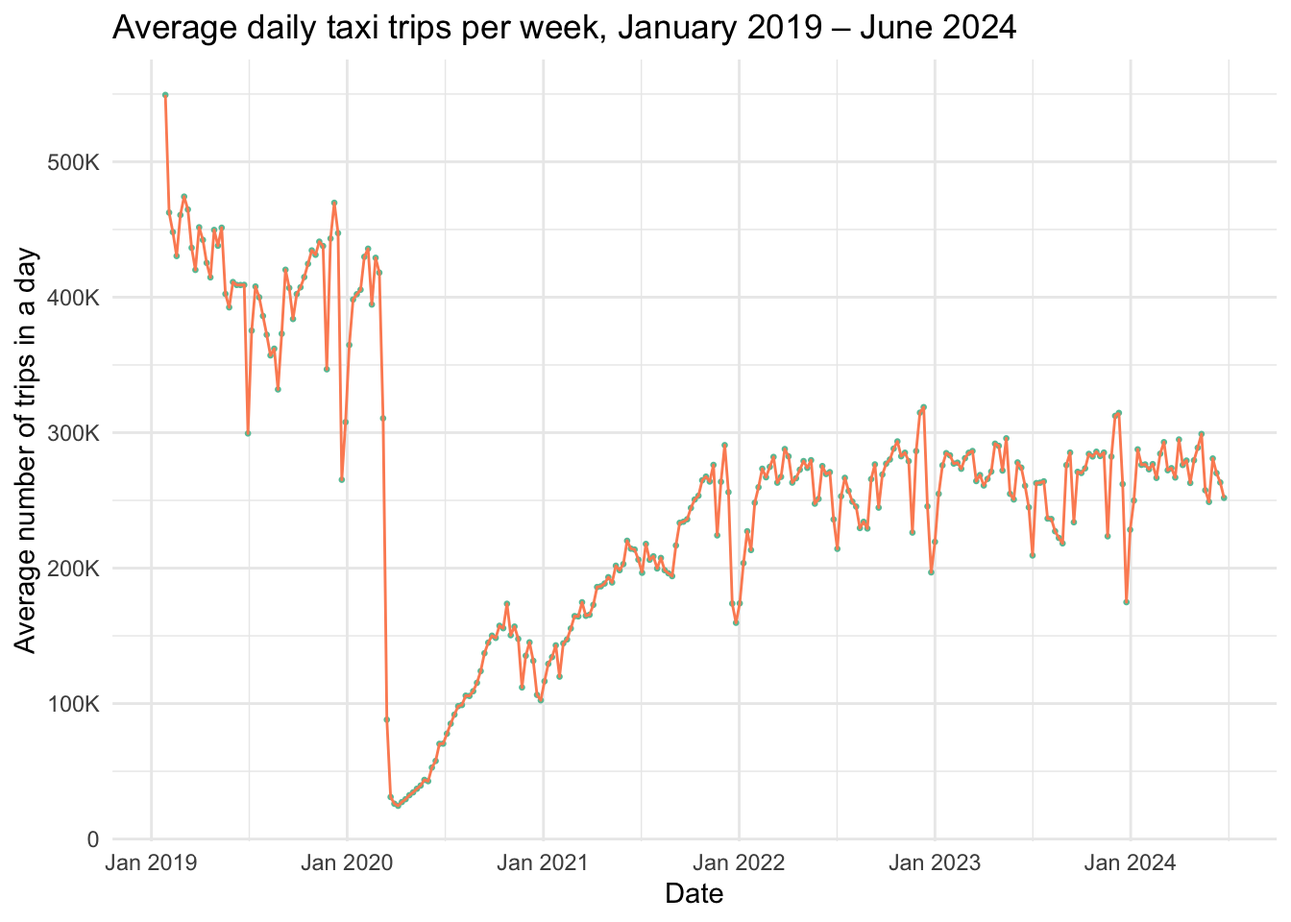
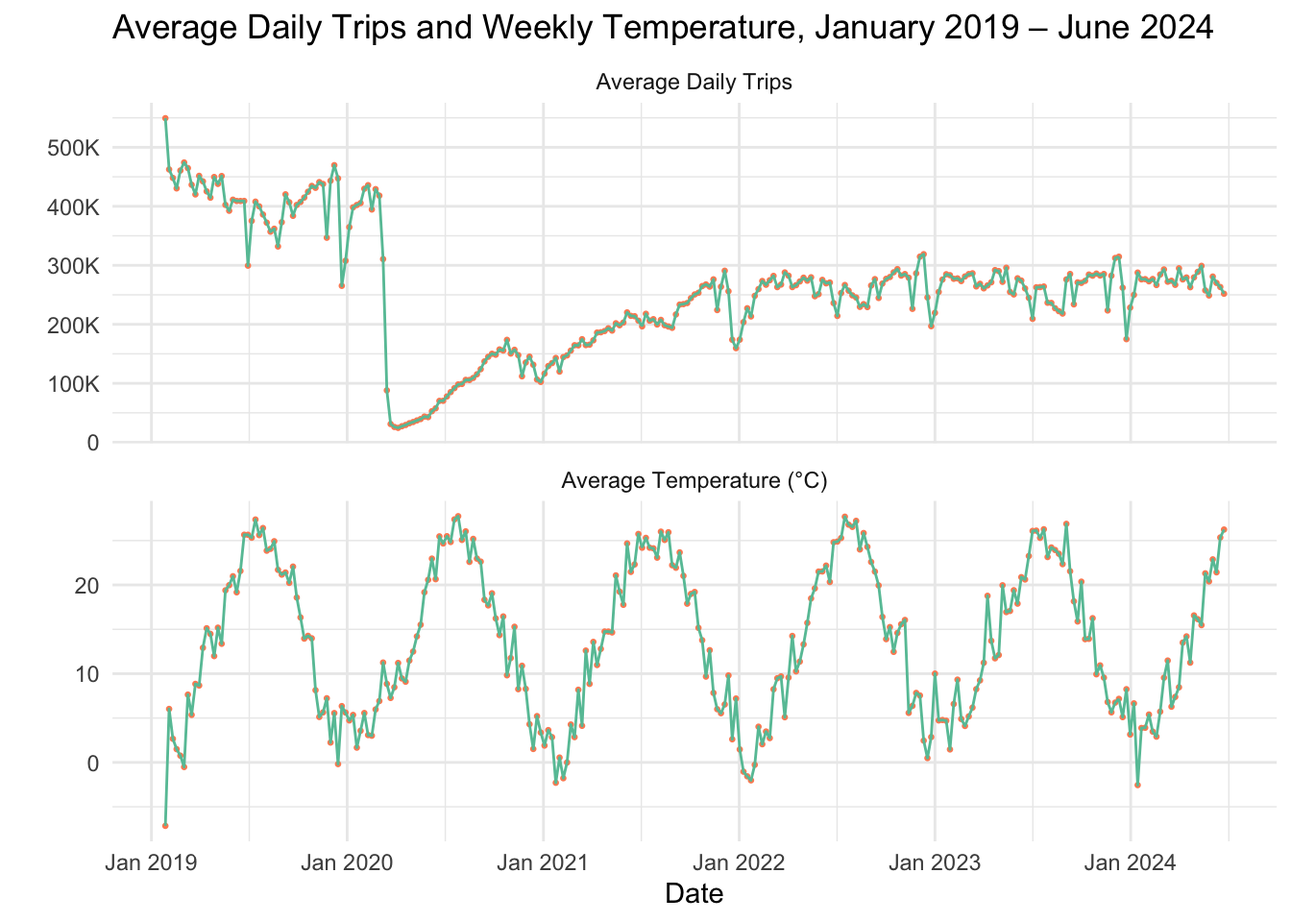
feat: Harmonize ch. 1.

diff --git a/docs/index.html b/docs/index.html
@@ -193,7 +193,7 @@ pre > code.sourceCode > span > a:first-child::before { text-decoration: underlin
   <ul>
   <li><a href="#introduction" id="toc-introduction" class="nav-link active" data-scroll-target="#introduction"><span class="header-section-number">1</span> Introduction</a>
   <ul class="collapse">
-  <li><a href="#a-glance-at-the-data" id="toc-a-glance-at-the-data" class="nav-link" data-scroll-target="#a-glance-at-the-data"><span class="header-section-number">1.1</span> A glance at the data</a></li>
+  <li><a href="#a-high-level-look-at-weather-and-taxi-trends-can-we-spot-a-pattern-from-here" id="toc-a-high-level-look-at-weather-and-taxi-trends-can-we-spot-a-pattern-from-here" class="nav-link" data-scroll-target="#a-high-level-look-at-weather-and-taxi-trends-can-we-spot-a-pattern-from-here"><span class="header-section-number">1.1</span> A High-Level Look at Weather and Taxi Trends: Can We Spot a Pattern from Here?</a></li>
   </ul></li>
   </ul>
 <div class="toc-actions"><ul><li><a href="https://github.com/sophiewagner7/nyc-weather/edit/main/index.qmd" class="toc-action"><i class="bi bi-github"></i>Edit this page</a></li><li><a href="https://github.com/sophiewagner7/nyc-weather/issues/new" class="toc-action"><i class="bi empty"></i>Report an issue</a></li></ul></div></nav>
@@ -235,33 +235,55 @@ pre > code.sourceCode > span > a:first-child::before { text-decoration: underlin
 
 <section id="introduction" class="level1" data-number="1">
 <h1 data-number="1"><span class="header-section-number">1</span> Introduction</h1>
-<p>At first, Moacir was interested in seeing if there is a relationship between “unseasonably” warm weather and New York and drought-like conditions, but Sophie suggested crossing in a dataset from a different domain and seeing what kinds of results could emerge. Instead of just looking at the weather, perhaps we can draw a relationship between human behavioral response to the weather and taxi usage. What might this look like? After a bit of discussion, we had a preliminary idea of testing the hypothesis that people use cabs less often when it is “nice” out in Manhattan. That is, they are more inclined to walk to their destination than hail an expensive cab.</p>
-<p>Quickly it was clear, however, that proving this hypothesis would require coming up with a definition of “nice,” so we flipped the project: we’re assuming as true that people are more inclined to walk when the weather is nice, so we are using the taxi data to see if we can define what “nice” weather is. Does it just mean sunny skies, or does it have a relationship to a temperature threshold? How might relative temperature come into play, such as an unusually warm day after a cold spell, impacting people’s inclination to walk? And does the effect wear off if there are multiple nice days in a row, as the novelty of walking gives way to taking cabs again? These questions struck us as more amusing and speculative, so we decided to pursue them, instead.</p>
-<p>Overall, our project explores how weather influences the small, everyday decisions which collectively shape urban life. The unique spatial and temporal granularity of taxi data allows us to capture patterns of human mobility with precision. By doing so, we may observe behavioral shifts in response to weather changes in real time. Such a study not only provides a unique lens into how people adapt their transportation preferences due to the weather, but also serves as a microcosm for understanding human responses to environmental factors. Such insights are particularly relevant in a large, dynamic city like New York.</p>
-<section id="a-glance-at-the-data" class="level2" data-number="1.1">
-<h2 data-number="1.1" class="anchored" data-anchor-id="a-glance-at-the-data"><span class="header-section-number">1.1</span> A glance at the data</h2>
+<p>Do you ever wonder how weather influences our everyday choices? In a city like New York, even simple behavioral changes can have macro-level ripple effects. This is what we set out to explore—starting with taxi data.</p>
+<p>At first, Moacir was interested in seeing if there is a relationship between “unseasonably” warm weather and New York and drought-like conditions, but Sophie suggested taking it in a different direction: what if we crossed this data with some human behavior, like taxi usage? What might this look like? After a bit of discussion, we landed on a fun hypothesis: people use cabs less often when it is “nice” out in Manhattan – they would rather walk than hail an expensive cab.</p>
+<p>Proving this turned out to be tricky: what is even is “nice” weather? Does it just mean sunny skies, or does it have a relationship to a temperature threshold? How might relative temperature come into play, such as an unusually warm day after a cold spell, impacting people’s inclination to walk? And does the effect wear off if there are multiple nice days in a row, as the novelty of walking gives way to taking cabs again? These questions struck us as more amusing and speculative, so we decided to pursue them, instead. Instead of proving the hypothesis, we are using taxi data to see if we can define what “nice” weather is.</p>
+<p>In short, our project aims to uncover how weather influences small, everyday decisions in urban life. Using taxi data provides a unique lens into how people adapt their transportation preferences due to the weather, serving as a microcosm for understanding human responses to environmental factors. In a city as dynamic as NYC, the answers could be particularly relevant and reveal fascinating insights about how we adapt to our surroundings.</p>
+<section id="a-high-level-look-at-weather-and-taxi-trends-can-we-spot-a-pattern-from-here" class="level2" data-number="1.1">
+<h2 data-number="1.1" class="anchored" data-anchor-id="a-high-level-look-at-weather-and-taxi-trends-can-we-spot-a-pattern-from-here"><span class="header-section-number">1.1</span> A High-Level Look at Weather and Taxi Trends: Can We Spot a Pattern from Here?</h2>
 <p>Let’s take a quick peek at the data. Below we have weekly averages for daily taxi rides and temperature from January 2019 to June 2024.</p>
 <div class="cell">
 <details class="code-fold">
 <summary>Code</summary>
 <div class="sourceCode cell-code" id="cb1"><pre class="sourceCode r code-with-copy"><code class="sourceCode r"><span id="cb1-1"><a href="#cb1-1" aria-hidden="true" tabindex="-1"></a>df <span class="ot">&lt;-</span> <span class="fu">read_parquet</span>(<span class="st">"data/complete_weather_and_taxi_data.parquet"</span>)</span>
-<span id="cb1-2"><a href="#cb1-2" aria-hidden="true" tabindex="-1"></a>df <span class="sc">|&gt;</span> </span>
-<span id="cb1-3"><a href="#cb1-3" aria-hidden="true" tabindex="-1"></a>  <span class="fu">group_by</span>(date) <span class="sc">|&gt;</span> </span>
-<span id="cb1-4"><a href="#cb1-4" aria-hidden="true" tabindex="-1"></a>  <span class="fu">summarize</span>(<span class="at">total_trips_day =</span> <span class="fu">sum</span>(trip_count)) <span class="sc">|&gt;</span> </span>
-<span id="cb1-5"><a href="#cb1-5" aria-hidden="true" tabindex="-1"></a>  <span class="fu">select</span>(date, total_trips_day) <span class="sc">|&gt;</span></span>
-<span id="cb1-6"><a href="#cb1-6" aria-hidden="true" tabindex="-1"></a>  <span class="fu">mutate</span>(<span class="at">week_start=</span>lubridate<span class="sc">::</span><span class="fu">floor_date</span>(date, <span class="at">unit=</span><span class="st">"week"</span>)) <span class="sc">|&gt;</span></span>
-<span id="cb1-7"><a href="#cb1-7" aria-hidden="true" tabindex="-1"></a>  <span class="fu">group_by</span>(week_start) <span class="sc">|&gt;</span></span>
-<span id="cb1-8"><a href="#cb1-8" aria-hidden="true" tabindex="-1"></a>  <span class="fu">summarize</span>(<span class="at">avg_trips_day =</span> <span class="fu">mean</span>(total_trips_day))<span class="sc">|&gt;</span></span>
-<span id="cb1-9"><a href="#cb1-9" aria-hidden="true" tabindex="-1"></a>  <span class="fu">ggplot</span>(<span class="fu">aes</span>(<span class="at">x=</span>week_start, <span class="at">y=</span>avg_trips_day)) <span class="sc">+</span></span>
-<span id="cb1-10"><a href="#cb1-10" aria-hidden="true" tabindex="-1"></a>    <span class="fu">geom_point</span>(<span class="at">color=</span>base_color, <span class="at">size=</span><span class="fl">0.5</span>) <span class="sc">+</span></span>
-<span id="cb1-11"><a href="#cb1-11" aria-hidden="true" tabindex="-1"></a>    <span class="fu">geom_line</span>(<span class="at">color=</span>secondary_color) <span class="sc">+</span> </span>
-<span id="cb1-12"><a href="#cb1-12" aria-hidden="true" tabindex="-1"></a>    <span class="fu">scale_x_date</span>(<span class="at">date_labels =</span> <span class="st">"%b %Y"</span>, <span class="at">date_breaks =</span> <span class="st">"1 year"</span>) <span class="sc">+</span></span>
-<span id="cb1-13"><a href="#cb1-13" aria-hidden="true" tabindex="-1"></a>    <span class="fu">scale_y_continuous</span>(<span class="at">labels =</span> thousands) <span class="sc">+</span></span>
-<span id="cb1-14"><a href="#cb1-14" aria-hidden="true" tabindex="-1"></a>    <span class="fu">labs</span>(</span>
-<span id="cb1-15"><a href="#cb1-15" aria-hidden="true" tabindex="-1"></a>      <span class="at">title=</span><span class="st">"Average daily taxi trips per week, January 2019 – June 2024"</span>,</span>
-<span id="cb1-16"><a href="#cb1-16" aria-hidden="true" tabindex="-1"></a>      <span class="at">x =</span> <span class="st">"Date"</span>, </span>
-<span id="cb1-17"><a href="#cb1-17" aria-hidden="true" tabindex="-1"></a>      <span class="at">y =</span> <span class="st">"Average number of trips in a day"</span></span>
-<span id="cb1-18"><a href="#cb1-18" aria-hidden="true" tabindex="-1"></a>    ) </span></code><button title="Copy to Clipboard" class="code-copy-button"><i class="bi"></i></button></pre></div>
+<span id="cb1-2"><a href="#cb1-2" aria-hidden="true" tabindex="-1"></a></span>
+<span id="cb1-3"><a href="#cb1-3" aria-hidden="true" tabindex="-1"></a>double_scale <span class="ot">&lt;-</span> <span class="cf">function</span>(x) {</span>
+<span id="cb1-4"><a href="#cb1-4" aria-hidden="true" tabindex="-1"></a>  <span class="fu">ifelse</span>(x <span class="sc">&gt;=</span> <span class="dv">1000</span>, <span class="fu">paste0</span>(x <span class="sc">/</span> <span class="dv">1000</span>, <span class="st">"K"</span>), <span class="fu">as.character</span>(x))</span>
+<span id="cb1-5"><a href="#cb1-5" aria-hidden="true" tabindex="-1"></a>}</span>
+<span id="cb1-6"><a href="#cb1-6" aria-hidden="true" tabindex="-1"></a></span>
+<span id="cb1-7"><a href="#cb1-7" aria-hidden="true" tabindex="-1"></a>df <span class="sc">|&gt;</span> </span>
+<span id="cb1-8"><a href="#cb1-8" aria-hidden="true" tabindex="-1"></a>  <span class="fu">group_by</span>(date) <span class="sc">|&gt;</span> </span>
+<span id="cb1-9"><a href="#cb1-9" aria-hidden="true" tabindex="-1"></a>  <span class="fu">summarize</span>(</span>
+<span id="cb1-10"><a href="#cb1-10" aria-hidden="true" tabindex="-1"></a>    <span class="at">total_trips_day =</span> <span class="fu">sum</span>(trip_count), <span class="at">.groups =</span> <span class="st">"drop"</span>,</span>
+<span id="cb1-11"><a href="#cb1-11" aria-hidden="true" tabindex="-1"></a>    <span class="at">daily_temp =</span> <span class="fu">mean</span>(temperature, <span class="at">na.rm =</span> T)</span>
+<span id="cb1-12"><a href="#cb1-12" aria-hidden="true" tabindex="-1"></a>  )  <span class="sc">|&gt;</span> </span>
+<span id="cb1-13"><a href="#cb1-13" aria-hidden="true" tabindex="-1"></a>  <span class="fu">mutate</span>(<span class="at">week_start =</span> <span class="fu">floor_date</span>(date, <span class="at">unit =</span> <span class="st">"week"</span>)) <span class="sc">|&gt;</span> </span>
+<span id="cb1-14"><a href="#cb1-14" aria-hidden="true" tabindex="-1"></a>  <span class="fu">group_by</span>(week_start) <span class="sc">|&gt;</span> </span>
+<span id="cb1-15"><a href="#cb1-15" aria-hidden="true" tabindex="-1"></a>  <span class="fu">summarize</span>(</span>
+<span id="cb1-16"><a href="#cb1-16" aria-hidden="true" tabindex="-1"></a>    <span class="at">avg_trips_day =</span> <span class="fu">mean</span>(total_trips_day),</span>
+<span id="cb1-17"><a href="#cb1-17" aria-hidden="true" tabindex="-1"></a>    <span class="at">avg_temp_day =</span> <span class="fu">mean</span>(daily_temp), <span class="at">.groups =</span> <span class="st">"drop"</span></span>
+<span id="cb1-18"><a href="#cb1-18" aria-hidden="true" tabindex="-1"></a>  ) <span class="sc">|&gt;</span> </span>
+<span id="cb1-19"><a href="#cb1-19" aria-hidden="true" tabindex="-1"></a>  <span class="fu">pivot_longer</span>(</span>
+<span id="cb1-20"><a href="#cb1-20" aria-hidden="true" tabindex="-1"></a>    <span class="at">cols=</span><span class="fu">c</span>(avg_trips_day, avg_temp_day), </span>
+<span id="cb1-21"><a href="#cb1-21" aria-hidden="true" tabindex="-1"></a>    <span class="at">names_to=</span><span class="st">"avg_day_metric"</span>, </span>
+<span id="cb1-22"><a href="#cb1-22" aria-hidden="true" tabindex="-1"></a>    <span class="at">values_to=</span><span class="st">"avg_day_value"</span></span>
+<span id="cb1-23"><a href="#cb1-23" aria-hidden="true" tabindex="-1"></a>  ) <span class="sc">|&gt;</span></span>
+<span id="cb1-24"><a href="#cb1-24" aria-hidden="true" tabindex="-1"></a>  <span class="fu">mutate</span>(<span class="at">avg_day_metric=</span><span class="fu">as.factor</span>(avg_day_metric)) <span class="sc">|&gt;</span> </span>
+<span id="cb1-25"><a href="#cb1-25" aria-hidden="true" tabindex="-1"></a>  <span class="fu">mutate</span>(<span class="at">avg_day_metric=</span><span class="fu">fct_recode</span>(</span>
+<span id="cb1-26"><a href="#cb1-26" aria-hidden="true" tabindex="-1"></a>    avg_day_metric, </span>
+<span id="cb1-27"><a href="#cb1-27" aria-hidden="true" tabindex="-1"></a>    <span class="st">"Average Daily Trips"</span><span class="ot">=</span><span class="st">"avg_trips_day"</span>, </span>
+<span id="cb1-28"><a href="#cb1-28" aria-hidden="true" tabindex="-1"></a>    <span class="st">"Average Temperature (°C)"</span><span class="ot">=</span><span class="st">"avg_temp_day"</span>)</span>
+<span id="cb1-29"><a href="#cb1-29" aria-hidden="true" tabindex="-1"></a>  ) <span class="sc">|&gt;</span> </span>
+<span id="cb1-30"><a href="#cb1-30" aria-hidden="true" tabindex="-1"></a>  <span class="fu">mutate</span>(<span class="at">avg_day_metric=</span><span class="fu">fct_rev</span>(avg_day_metric))  <span class="sc">|&gt;</span> </span>
+<span id="cb1-31"><a href="#cb1-31" aria-hidden="true" tabindex="-1"></a>  <span class="fu">ggplot</span>(<span class="fu">aes</span>(<span class="at">x =</span> week_start, <span class="at">y =</span> avg_day_value)) <span class="sc">+</span></span>
+<span id="cb1-32"><a href="#cb1-32" aria-hidden="true" tabindex="-1"></a>    <span class="fu">geom_point</span>(<span class="at">color =</span> secondary_color, <span class="at">size=</span><span class="fl">0.5</span>) <span class="sc">+</span></span>
+<span id="cb1-33"><a href="#cb1-33" aria-hidden="true" tabindex="-1"></a>    <span class="fu">geom_line</span>(<span class="at">color =</span> base_color) <span class="sc">+</span></span>
+<span id="cb1-34"><a href="#cb1-34" aria-hidden="true" tabindex="-1"></a>    <span class="fu">facet_wrap</span>(<span class="sc">~</span> avg_day_metric, <span class="at">scales =</span> <span class="st">"free_y"</span>, <span class="at">ncol=</span><span class="dv">1</span>) <span class="sc">+</span></span>
+<span id="cb1-35"><a href="#cb1-35" aria-hidden="true" tabindex="-1"></a>  <span class="fu">scale_x_date</span>(<span class="at">date_labels =</span> <span class="st">"%b %Y"</span>, <span class="at">date_breaks =</span> <span class="st">"1 year"</span>) <span class="sc">+</span></span>
+<span id="cb1-36"><a href="#cb1-36" aria-hidden="true" tabindex="-1"></a>  <span class="fu">scale_y_continuous</span>(<span class="at">labels=</span>double_scale) <span class="sc">+</span></span>
+<span id="cb1-37"><a href="#cb1-37" aria-hidden="true" tabindex="-1"></a>  <span class="fu">labs</span>(<span class="at">title =</span> <span class="st">"Average Daily Trips and Weekly Temperature, January 2019 – June 2024"</span>,</span>
+<span id="cb1-38"><a href="#cb1-38" aria-hidden="true" tabindex="-1"></a>       <span class="at">x =</span> <span class="st">"Date"</span>,</span>
+<span id="cb1-39"><a href="#cb1-39" aria-hidden="true" tabindex="-1"></a>       <span class="at">y =</span> <span class="st">""</span>)</span></code><button title="Copy to Clipboard" class="code-copy-button"><i class="bi"></i></button></pre></div>
 </details>
 <div class="cell-output-display">
 <div>
@@ -270,40 +292,17 @@ pre > code.sourceCode > span > a:first-child::before { text-decoration: underlin
 </figure>
 </div>
 </div>
-</div>
-<p>Considering the taxi data, there are many narratives that can be told. The most notable observation on the chart is the dramatic decline in ridership in March 2020, coinciding with the emergence of the full impact of the COVID-19 pandemic. While ridership has increased since, it has not nearly returned to pre-pandemic levels. This trend is likely influenced by the shift towards a more work-from-home friendly economic environment, along with other behavioral changes.</p>
-<p>We can also observe seasonal fluctuations; for example, it appears that there are dips and peaks around January of each year. These could be attributed to behavioral changes around the holidays, including increased travel around the holidays, staying in on the holidays themselves, or different travel patterns due to the weather. We will have to look at this with a lot more granularity in order to parse out further trends in the data.</p>
-<div class="cell">
 <details class="code-fold">
 <summary>Code</summary>
-<div class="sourceCode cell-code" id="cb2"><pre class="sourceCode r code-with-copy"><code class="sourceCode r"><span id="cb2-1"><a href="#cb2-1" aria-hidden="true" tabindex="-1"></a>df <span class="sc">|&gt;</span> </span>
-<span id="cb2-2"><a href="#cb2-2" aria-hidden="true" tabindex="-1"></a>  <span class="fu">filter</span>(<span class="sc">!</span><span class="fu">is.na</span>(temperature)) <span class="sc">|&gt;</span></span>
-<span id="cb2-3"><a href="#cb2-3" aria-hidden="true" tabindex="-1"></a>  <span class="fu">group_by</span>(date) <span class="sc">|&gt;</span> </span>
-<span id="cb2-4"><a href="#cb2-4" aria-hidden="true" tabindex="-1"></a>  <span class="fu">summarize</span>(<span class="at">daily_temp =</span> <span class="fu">mean</span>(temperature)) <span class="sc">|&gt;</span> </span>
-<span id="cb2-5"><a href="#cb2-5" aria-hidden="true" tabindex="-1"></a>  <span class="fu">select</span>(date, daily_temp) <span class="sc">|&gt;</span></span>
-<span id="cb2-6"><a href="#cb2-6" aria-hidden="true" tabindex="-1"></a>  <span class="fu">mutate</span>(<span class="at">week_start=</span>lubridate<span class="sc">::</span><span class="fu">floor_date</span>(date, <span class="at">unit=</span><span class="st">"week"</span>)) <span class="sc">|&gt;</span></span>
-<span id="cb2-7"><a href="#cb2-7" aria-hidden="true" tabindex="-1"></a>  <span class="fu">group_by</span>(week_start) <span class="sc">|&gt;</span></span>
-<span id="cb2-8"><a href="#cb2-8" aria-hidden="true" tabindex="-1"></a>  <span class="fu">summarize</span>(<span class="at">avg_temp_day =</span> <span class="fu">mean</span>(daily_temp)) <span class="sc">|&gt;</span></span>
-<span id="cb2-9"><a href="#cb2-9" aria-hidden="true" tabindex="-1"></a>  <span class="fu">ggplot</span>(<span class="fu">aes</span>(<span class="at">x=</span>week_start, <span class="at">y=</span>avg_temp_day)) <span class="sc">+</span></span>
-<span id="cb2-10"><a href="#cb2-10" aria-hidden="true" tabindex="-1"></a>    <span class="fu">geom_point</span>(<span class="at">color=</span>base_color, <span class="at">size=</span><span class="fl">0.5</span>) <span class="sc">+</span></span>
-<span id="cb2-11"><a href="#cb2-11" aria-hidden="true" tabindex="-1"></a>    <span class="fu">geom_line</span>(<span class="at">color=</span>secondary_color) <span class="sc">+</span></span>
-<span id="cb2-12"><a href="#cb2-12" aria-hidden="true" tabindex="-1"></a>    <span class="fu">geom_hline</span>(<span class="at">yintercept=</span><span class="dv">0</span>)<span class="sc">+</span></span>
-<span id="cb2-13"><a href="#cb2-13" aria-hidden="true" tabindex="-1"></a>    <span class="fu">scale_x_date</span>(<span class="at">date_labels =</span> <span class="st">"%b %Y"</span>, <span class="at">date_breaks =</span> <span class="st">"1 year"</span>) <span class="sc">+</span></span>
-<span id="cb2-14"><a href="#cb2-14" aria-hidden="true" tabindex="-1"></a>    <span class="fu">labs</span>(<span class="at">title=</span><span class="st">"Average Weekly Temperature, January 2019 – June 2024"</span>,</span>
-<span id="cb2-15"><a href="#cb2-15" aria-hidden="true" tabindex="-1"></a>         <span class="at">x =</span> <span class="st">"Date"</span>, </span>
-<span id="cb2-16"><a href="#cb2-16" aria-hidden="true" tabindex="-1"></a>         <span class="at">y =</span> temperature_label</span>
-<span id="cb2-17"><a href="#cb2-17" aria-hidden="true" tabindex="-1"></a>    ) </span></code><button title="Copy to Clipboard" class="code-copy-button"><i class="bi"></i></button></pre></div>
+<div class="sourceCode cell-code" id="cb2"><pre class="sourceCode r code-with-copy"><code class="sourceCode r"><span id="cb2-1"><a href="#cb2-1" aria-hidden="true" tabindex="-1"></a>   <span class="co"># theme(</span></span>
+<span id="cb2-2"><a href="#cb2-2" aria-hidden="true" tabindex="-1"></a>   <span class="co">#    axis.title.y = element_blank(),</span></span>
+<span id="cb2-3"><a href="#cb2-3" aria-hidden="true" tabindex="-1"></a>   <span class="co">#    axis.text.y = element_blank(),</span></span>
+<span id="cb2-4"><a href="#cb2-4" aria-hidden="true" tabindex="-1"></a>   <span class="co"># )</span></span></code><button title="Copy to Clipboard" class="code-copy-button"><i class="bi"></i></button></pre></div>
 </details>
-<div class="cell-output-display">
-<div>
-<figure class="figure">
-<p><img src="index_files/figure-html/unnamed-chunk-3-1.png" class="img-fluid figure-img" width="768"></p>
-</figure>
 </div>
-</div>
-</div>
-<p>Average weekly temperature looks fairly consistent over time, with expected seasonal peaks and valleys across the year. There may be a subtle trend of slightly higher average temperatures in more recent years, but nothing too definitive.</p>
-<p>As just one data point, temperature provides a limited slice into what may distinguish a “nice day.” In the next chapter, we will see that it will be necessary to calculate additional numeric and categorical weather measurements to help establish this definition. Ideas include change in temperature and a simple categorical variable for cloud cover derived from the multiple columns currently devoted to cloud cover.</p>
+<p>🚕 Considering the taxi data, the most notable observation is the dramatic drop in ridership in March 2020, coinciding with the beginning of the COVID-19 pandemic. While ridership has increased since, it has not nearly returned to pre-pandemic levels, reflecting increased work-from-home and other behavioral shifts. We can also observe seasonal fluctuations; for example, it appears that there are dips and peaks around January of each year, possibly tied to holiday travel patterns, weather, or other behavioral changes.</p>
+<p>⛅ Average weekly temperature follows predicted seasonal trends with peaks in the summer and dips in the winter. There may be a subtle trend of slightly higher average temperatures in more recent years, but nothing too definitive. Temperature alone provides a limited slice into what may distinguish a “nice day.” In the next chapter, additional metrics like temperature change and weather categories (e.g.&nbsp;cloud cover, rain) will be explored to refine the relationship between weather and ridership.</p>
+<p>From this broad view, it is really hard to see any clear relationship between ridership and weather. This is what makes our project so interesting–how can we hammer out the data to unveil micro-patterns? We’ll need to conduct a much more granular analysis to get to the bottom of things.</p>
 
 
 </section>

diff --git a/docs/results.html b/docs/results.html
@@ -217,7 +217,7 @@ div.csl-indent {
   <li><a href="#day-of-week-and-seasonal-patterns" id="toc-day-of-week-and-seasonal-patterns" class="nav-link" data-scroll-target="#day-of-week-and-seasonal-patterns"><span class="header-section-number">3.2.3</span> Day of week and seasonal patterns</a></li>
   </ul></li>
   <li><a href="#patterns-in-weather-data" id="toc-patterns-in-weather-data" class="nav-link" data-scroll-target="#patterns-in-weather-data"><span class="header-section-number">3.3</span> Patterns in Weather Data</a></li>
-  <li><a href="#weather-vs.-trips." id="toc-weather-vs.-trips." class="nav-link" data-scroll-target="#weather-vs.-trips."><span class="header-section-number">3.4</span> Weather vs.&nbsp;Trips.</a>
+  <li><a href="#weather-vs.-trips-can-we-define-nice-weather-by-looking-at-ridership-patterns" id="toc-weather-vs.-trips-can-we-define-nice-weather-by-looking-at-ridership-patterns" class="nav-link" data-scroll-target="#weather-vs.-trips-can-we-define-nice-weather-by-looking-at-ridership-patterns"><span class="header-section-number">3.4</span> Weather vs.&nbsp;Trips: Can we define “nice” weather by looking at ridership patterns?</a>
   <ul class="collapse">
   <li><a href="#count-of-trips" id="toc-count-of-trips" class="nav-link" data-scroll-target="#count-of-trips"><span class="header-section-number">3.4.1</span> Count of trips</a></li>
   </ul></li>
@@ -465,7 +465,7 @@ div.csl-indent {
 <span id="cb5-50"><a href="#cb5-50" aria-hidden="true" tabindex="-1"></a>      <span class="at">fill =</span> <span class="st">"Trip Distance"</span></span>
 <span id="cb5-51"><a href="#cb5-51" aria-hidden="true" tabindex="-1"></a>  ) <span class="sc">+</span></span>
 <span id="cb5-52"><a href="#cb5-52" aria-hidden="true" tabindex="-1"></a>  <span class="fu">scale_fill_brewer</span>(</span>
-<span id="cb5-53"><a href="#cb5-53" aria-hidden="true" tabindex="-1"></a>    <span class="at">palette =</span> <span class="st">"Blues"</span>,</span>
+<span id="cb5-53"><a href="#cb5-53" aria-hidden="true" tabindex="-1"></a>    <span class="at">palette =</span> <span class="st">"GnBu"</span>,</span>
 <span id="cb5-54"><a href="#cb5-54" aria-hidden="true" tabindex="-1"></a>    <span class="at">labels =</span> <span class="fu">c</span>(</span>
 <span id="cb5-55"><a href="#cb5-55" aria-hidden="true" tabindex="-1"></a>      <span class="st">"pct_more_than_five"</span> <span class="ot">=</span> <span class="st">"Five to Ten Miles"</span>,</span>
 <span id="cb5-56"><a href="#cb5-56" aria-hidden="true" tabindex="-1"></a>      <span class="st">"pct_five_mile"</span> <span class="ot">=</span> <span class="st">"Three to Five Miles"</span>,</span>
@@ -766,8 +766,8 @@ div.csl-indent {
 </div>
 </div>
 </section>
-<section id="weather-vs.-trips." class="level2" data-number="3.4">
-<h2 data-number="3.4" class="anchored" data-anchor-id="weather-vs.-trips."><span class="header-section-number">3.4</span> Weather vs.&nbsp;Trips.</h2>
+<section id="weather-vs.-trips-can-we-define-nice-weather-by-looking-at-ridership-patterns" class="level2" data-number="3.4">
+<h2 data-number="3.4" class="anchored" data-anchor-id="weather-vs.-trips-can-we-define-nice-weather-by-looking-at-ridership-patterns"><span class="header-section-number">3.4</span> Weather vs.&nbsp;Trips: Can we define “nice” weather by looking at ridership patterns?</h2>
 <!-- ## Weather vs. Trips. -->
 <p>Now that we have refocused our attention to a smaller subset of the data, we can look at some initial relationships between the two central taxi variables (<code>trip_count</code> and the various distance bands) and the three weather variables, (<code>temperature</code>, <code>cloud_cover</code>, and <code>rain</code>).</p>
 <div class="cell">
@@ -1047,6 +1047,7 @@ div.csl-indent {
 </div>
 </div>
 <p>Potentially illuminates that people are slightly more rigid in morning routines compared to evening routines.</p>
+<p>Rain and cloud and temp together w/ ridership: what defines a “nice” day? Where do we see the most and least ridership?</p>
 </section>
 </section>
 <section id="timeshifts" class="level2" data-number="3.5">

diff --git a/docs/scripts/myscript.js b/docs/scripts/myscript.js
@@ -100,7 +100,6 @@ d3.select("#temperature").on("input", function() {
 
 const makeChart = (temperature, csvData) => {
   const {meanTrips, data} = filterData(temperature, csvData);
-  console.log(data);
   const x = data.map(n => n[0]);
   const y = data.map(n => n[1]);
   const xScale = d3.scaleBand(
